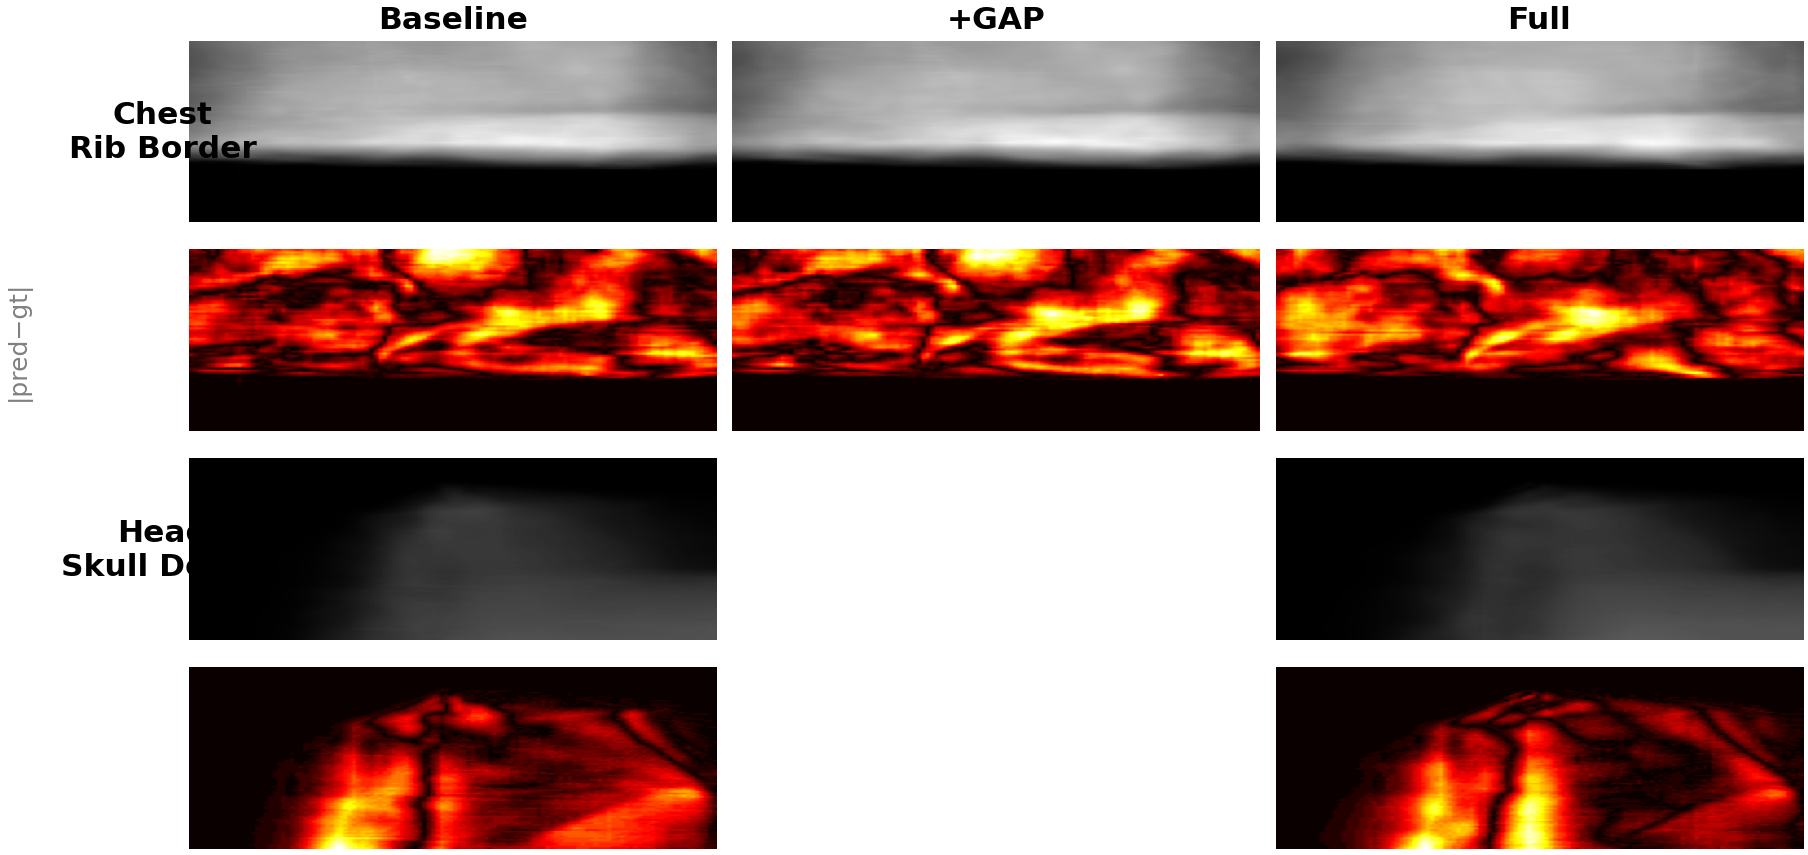
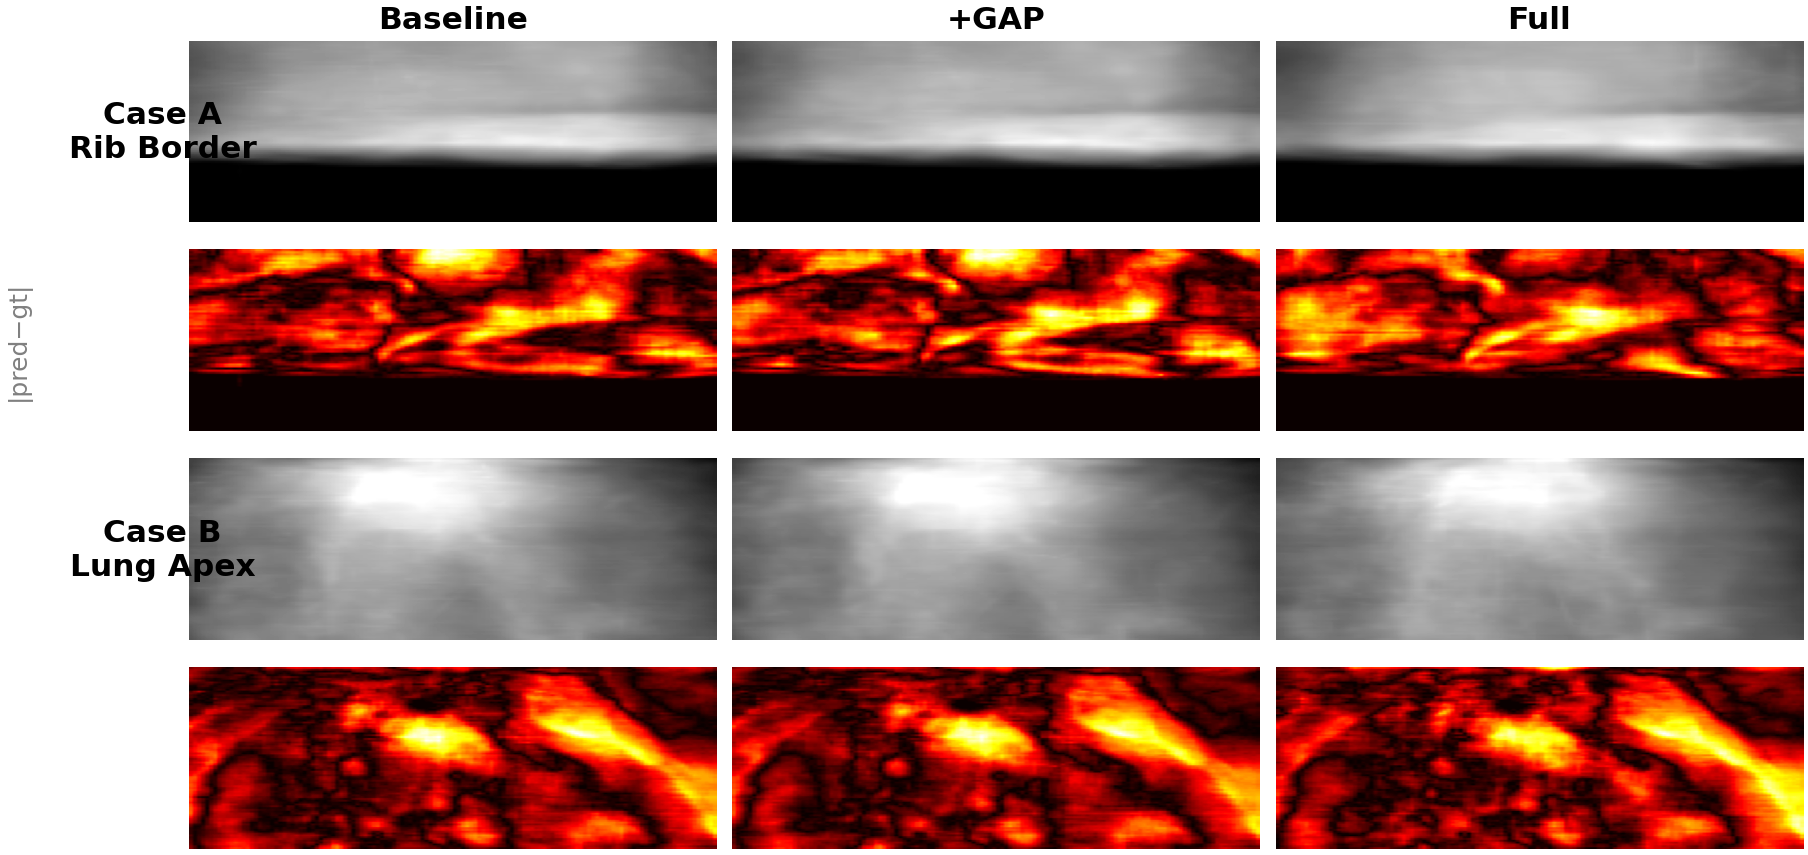
R5: fix ablation Case B +GAP blank — switch to chest/35 (no head gar_only renders) + fail-fast guard

diff --git a/scripts/render_camera_ready_figures_r4.py b/scripts/render_camera_ready_figures_r4.py
@@ -82,8 +82,19 @@ def imshow_off(ax, img, vmin=0, vmax=1):
 # ================================================================
 # 1. fig_ablation_visual — 3-col: Baseline / +GAP / Full + residuals
 # ================================================================
+def _load_render(organ, cfg_key, view):
+    """Load a single render. Returns (pred_img_or_None, gt_img_or_None)."""
+    if cfg_key in ("spags", "r2_gaussian"):
+        pred = _find_render(organ, cfg_key, view)
+    else:
+        pred = _find_render_by_dir(organ, cfg_key, view,
+                                   skip_prefixes=['opt_', 'pprune', 'retry',
+                                                  'adaptive', 'spsv', 'gap_th'])
+    gt = _find_gt(organ, view)
+    return pred, gt
+
 def make_ablation():
-    print("=== fig_ablation_visual (R4) ===")
+    print("=== fig_ablation_visual (R5) ===")
 
     CONFIGS = [
         ("r2_gaussian", "Baseline"),
@@ -91,50 +102,69 @@ def make_ablation():
         ("spags", "Full"),
     ]
 
-    # Two challenging cases from different organs
+    # Two challenging cases — both chest (only gar_only has renders for chest)
+    # view=10: coronal view showing rib cage
+    # view=35: different perspective, challenging for consistency
     CASES = [
-        ("chest", 10, "Chest\nRib Border"),
-        ("head", 25, "Head\nSkull Detail"),
+        ("chest", 10, "Case A\nRib Border"),
+        ("chest", 35, "Case B\nLung Apex"),
     ]
 
-    # ROI for each case in the full image
     ROIS = {
-        "chest": (60, 170, 180, 270),   # rib border tight crop
-        "head":  (30, 70, 150, 180),    # skull bone boundary
+        10: (60, 170, 180, 280),   # rib border — high gradient bone boundary
+        35: (45, 40, 175, 140),    # upper lung apex — fine vascular structures
     }
 
     n_rows = len(CASES)
     n_cols = len(CONFIGS)
 
+    # ========== Pre-flight: verify ALL renders exist ==========
+    print("  Pre-flight check: verifying all ablation renders...")
+    for ci, (organ, view, cname) in enumerate(CASES):
+        for col, (cfg_key, cfg_name) in enumerate(CONFIGS):
+            pred, gt = _load_render(organ, cfg_key, view)
+            if pred is None:
+                raise ValueError(
+                    f"FAIL-FAST: {cname} / {cfg_name} pred not found "
+                    f"(organ={organ}, view={view}, cfg={cfg_key})")
+            if gt is None:
+                raise ValueError(
+                    f"FAIL-FAST: {cname} GT not found (organ={organ}, view={view})")
+            # Verify crop is non-empty
+            rx0, ry0, rx1, ry1 = ROIS[view]
+            crop = pred[ry0:ry1, rx0:rx1]
+            if crop.size == 0:
+                raise ValueError(
+                    f"FAIL-FAST: {cname} / {cfg_name} crop is empty "
+                    f"(ROI=({rx0},{ry0},{rx1},{ry1}), img_size={pred.shape})")
+            # Verify crop is not all-white / NaN
+            if np.all(crop > 0.999) or np.isnan(crop).all():
+                raise ValueError(
+                    f"FAIL-FAST: {cname} / {cfg_name} crop is all-white/NaN")
+        print(f"   ✅ {cname}: all {n_cols} cells OK")
+    print("  ✓ All renders verified — generating figure")
+
+    # ========== Build figure ==========
     fig = plt.figure(figsize=(7.1, 3.5))
-    # 2 rows per case: main + residual
     gs = gridspec.GridSpec(n_rows * 2, n_cols + 1,
                            figure=fig,
                            width_ratios=[0.04] + [1]*n_cols,
                            wspace=0.04, hspace=0.15)
 
     for ci, (organ, view, cname) in enumerate(CASES):
-        rx0, ry0, rx1, ry1 = ROIS[organ]
-        gt_crop = None
+        rx0, ry0, rx1, ry1 = ROIS[view]
+
+        # Pre-load GT crop once for this case
+        _, gt = _load_render(organ, CONFIGS[0][0], view)
+        gt_crop = gt[ry0:ry1, rx0:rx1] if gt is not None else None
 
         for col, (cfg_key, cfg_name) in enumerate(CONFIGS):
+            pred, _ = _load_render(organ, cfg_key, view)
+            crop = pred[ry0:ry1, rx0:rx1]
+
             # === Main crop row ===
             ax = fig.add_subplot(gs[ci * 2, col + 1])
-
-            # Load render for this config
-            if cfg_key in ("spags", "r2_gaussian"):
-                pred = _find_render(organ, cfg_key, view)
-            else:
-                pred = _find_render_by_dir(organ, cfg_key, view, skip_prefixes=['opt_', 'pprune', 'retry', 'adaptive', 'spsv', 'gap_th'])
-
-            if pred is not None:
-                crop = pred[ry0:ry1, rx0:rx1]
-                ax.imshow(crop, cmap="gray", vmin=0, vmax=1, aspect="auto")
-
-                # Also load GT for residual
-                gt = _find_gt(organ, view)
-                if gt is not None and gt_crop is None:
-                    gt_crop = gt[ry0:ry1, rx0:rx1]
+            ax.imshow(crop, cmap="gray", vmin=0, vmax=1, aspect="auto")
             ax.axis("off")
 
             if ci == 0:
@@ -149,14 +179,10 @@ def make_ablation():
 
             # === Residual row ===
             ax_res = fig.add_subplot(gs[ci * 2 + 1, col + 1])
-            if pred is not None and gt is not None:
-                gt = _find_gt(organ, view)
-                if gt is not None:
-                    gt_crop = gt[ry0:ry1, rx0:rx1]
-                    residual = np.abs(crop - gt_crop)
-                    # Normalize residual for visibility
-                    res_vmax = max(residual.max(), 0.05)
-                    ax_res.imshow(residual, cmap="hot", vmin=0, vmax=res_vmax, aspect="auto")
+            if gt_crop is not None:
+                residual = np.abs(crop - gt_crop)
+                res_vmax = max(residual.max(), 0.05)
+                ax_res.imshow(residual, cmap="hot", vmin=0, vmax=res_vmax, aspect="auto")
             ax_res.axis("off")
 
             if col == 0 and ci == 0: